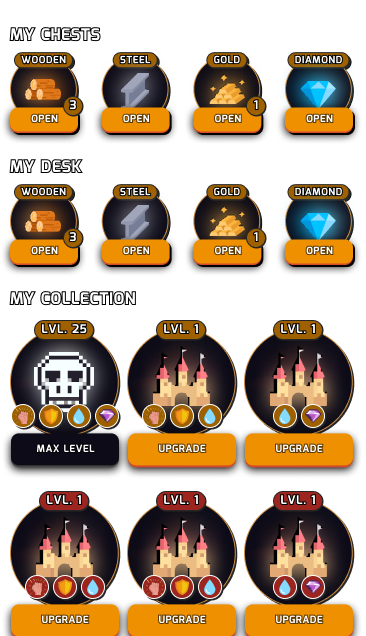
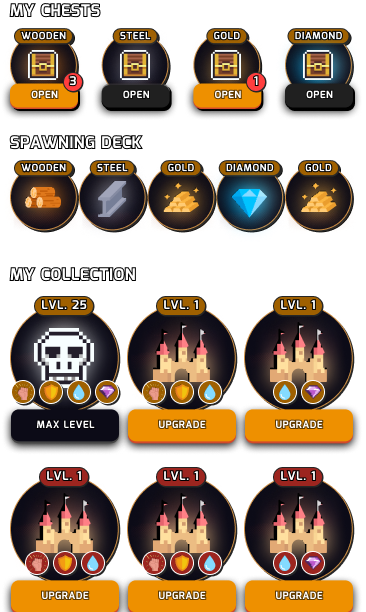
Update

diff --git a/app/layouts/BottomTabItems.tsx b/app/layouts/BottomTabItems.tsx
@@ -11,6 +11,7 @@ import Store from "../components/Contents/Store";
 import Friends from "@/app/components/Contents/Friends";
 import Quests from "@/app/components/Contents/Quests";
 import Airdrop from "@/app/components/Contents/Airdrop";
+import KingdomBuild from "@/app/components/elements/Kingdom/KingdomBuild";
 
 const tabItems: TabItem[] = [
     {
@@ -35,58 +36,63 @@ const tabItems: TabItem[] = [
     },
 ];
 
-const contentTabs = [
-    <div key="1" className="z-1">
-        <Hero />
-    </div>,
-    <div key="2" className="z-1">
-        <Lane />
-    </div>,
-    <div key="3" className="z-1">
-        <Kingdom />
-    </div>,
-    <div key="4" className="z-1">
-        <Creeps />
-    </div>,
-    <div key="5" className="z-1">
-        <Store />
-    </div>,
-    <div key="6" className="z-1">
-        <Friends />
-    </div>,
-    <div key="7" className="z-1">
-        <Quests />
-    </div>,
-    <div key="8" className="z-1">
-        <Airdrop />
-    </div>,
-];
-
 const FrontOverlay = () => {
-    const [activeTab, setActiveTab] = useState(0)
+    const [activeTab, setActiveTab] = useState(2)
 
     const handleTabClick = (index: number) => {
         setActiveTab(index);
         console.log("in tab menu " + index);
     };
 
+    const contentTabs = [
+        <div key="1" className="z-1">
+            <Hero />
+        </div>,
+        <div key="2" className="z-1">
+            <Lane />
+        </div>,
+        <div key="3" className="z-1">
+            <Kingdom handleBuildClick={handleTabClick}/>
+        </div>,
+        <div key="4" className="z-1">
+            <Creeps />
+        </div>,
+        <div key="5" className="z-1">
+            <Store />
+        </div>,
+        <div key="6" className="z-1">
+            <Friends />
+        </div>,
+        <div key="7" className="z-1">
+            <Quests />
+        </div>,
+        <div key="8" className="z-1">
+            <Airdrop />
+        </div>,
+        <div key="9" className="z-1">
+            <KingdomBuild />
+        </div>,
+    ];
+
     return (
         <div className="overlay-menu z-45">
-            {<TopTitle activeTab={activeTab} handleTabClick={handleTabClick}/>}
-            <div className="details-section">
-                <div className="wallet-section grid-cols-2">
-                    <div className="curved-box base-text gold-section">
-                        GOLD:
-                        <div className="right-side">
-                            123,456
-                            <img src="/assets/images/Coin.png" alt="" />
+            <div className="">
+                <TopTitle handleTabClick={handleTabClick}/>
+                <div className="details-section">
+                    <div className="wallet-section grid-cols-2">
+                        <div className="curved-box base-text gold-section">
+                            GOLD:
+                            <div className="right-side">
+                                123,456
+                                <img src="/assets/images/Coin.png" alt="" />
+                            </div>
                         </div>
-                    </div>
-                    <div className="curved-box base-text runes-section">
-                        RUNES:
-                        <div className="right-side">
-                            123
-                            <img src="/assets/images/icons/money.png" alt="" />
+                        <div className="curved-box base-text runes-section">
+                            RUNES:
+                            <div className="right-side">
+                                123
+                                <img src="/assets/images/icons/money.png" alt="" />
+                            </div>
                         </div>
                     </div>
                 </div>

diff --git a/app/components/Contents/Kingdom.tsx b/app/components/Contents/Kingdom.tsx
@@ -2,10 +2,11 @@ import React from "react";
 import "@/app/styles/pages/kingdom.css";
 import Image from "next/image";
 
-const Kingdom = () => {
-    function handleBuildClick() {
-        console.log("Build");
-    }
+interface KingdomProps {
+    handleBuildClick: any;
+}
+
+const Kingdom = (props: KingdomProps) => {
 
     return (
         <div className="main-kingdom-container">
@@ -16,7 +17,7 @@ const Kingdom = () => {
                         <Image className="float-right" src="/assets/images/Coin.png" width={20} height={20} alt=""/>
                     </div>
                 </div>
-                <button className="curved-box build base-text" onClick={() => handleBuildClick()}>Build</button>
+                <button className="curved-box build base-text" onClick={() => props.handleBuildClick(8)}>Build</button>
             </div>
             <Image src="/assets/images/kingdoms/kingdom.png" alt="kingdom" width={1000} height={1000}/>
         </div>

diff --git a/app/components/Contents/Creeps.tsx b/app/components/Contents/Creeps.tsx
@@ -3,8 +3,19 @@ import "@/app/styles/pages/creeps.css";
 const Creeps = () => {
     return (
         <div>
+            {/*<div className="">*/}
+            {/*    <div>*/}
+            {/*        <span>My Chests</span>*/}
+            {/*    </div>*/}
+            {/*    <div>*/}
+            {/*        <span>My Spawning Gallery</span>*/}
+            {/*    </div>*/}
+            {/*    <div>*/}
+            {/*        <span>My Collection</span>*/}
+            {/*    </div>*/}
+            {/*</div>*/}
             <div className="inset-0 flex justify-center items-center">
-                <img src="/assets/images/FrameCreeps.png" className="max-w-full"  alt=""/>
+                <img src="/assets/images/FrameCreeps.png" className="max-w-full" alt=""/>
             </div>
         </div>
     );

diff --git a/app/layouts/TopTitle.tsx b/app/layouts/TopTitle.tsx
@@ -1,9 +1,8 @@
 "use client"
 import React, { useEffect, useState } from "react";
-import TabMenu, {TabItem} from "@/app/components/elements/TabMenu";
+import {TabItem} from "@/app/components/elements/TabMenu";
 
 interface TopTitleProps{
-    activeTab: number;
     handleTabClick: any;
 }
 
@@ -22,13 +21,7 @@ const tabItems: TabItem[] = [
     },
 ]
 
-const TopTitle: React.FC<TopTitleProps> = ({activeTab, handleTabClick}) => {
-    useEffect(() => {
-        // Whenever activeTab prop changes, update internal index
-        setIndex(activeTab);
-    }, [activeTab]);
-
-    const [index, setIndex] = useState(activeTab);
+const TopTitle: React.FC<TopTitleProps> = ({handleTabClick}) => {
 
     return (
         <div className="top-container">

diff --git a/app/components/elements/Kingdom/KingdomBuild.tsx b/app/components/elements/Kingdom/KingdomBuild.tsx
@@ -1,7 +1,9 @@
+import Image from "next/image";
+
 export default function KingdomBuild() {
     return (
         <div>
-
+            <Image src="/assets/images/KingdomBuild.png" width={1000} height={1000} alt="KingdomBuild" />
         </div>
     )
 }
